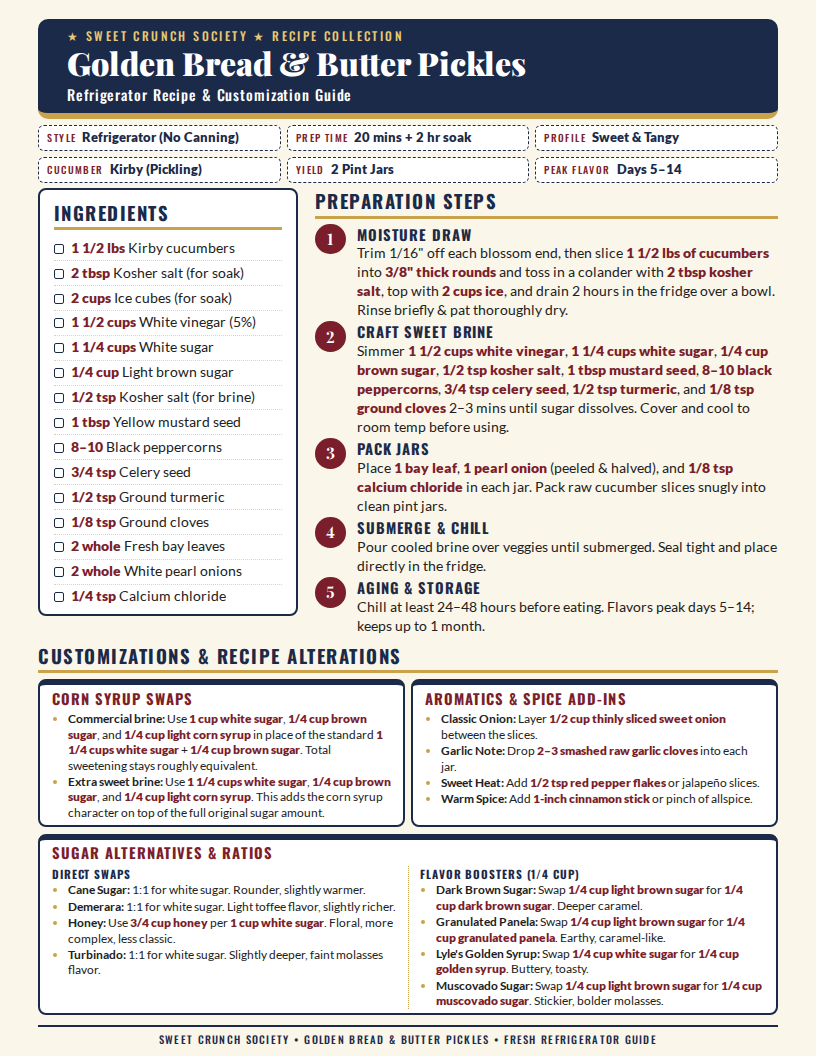
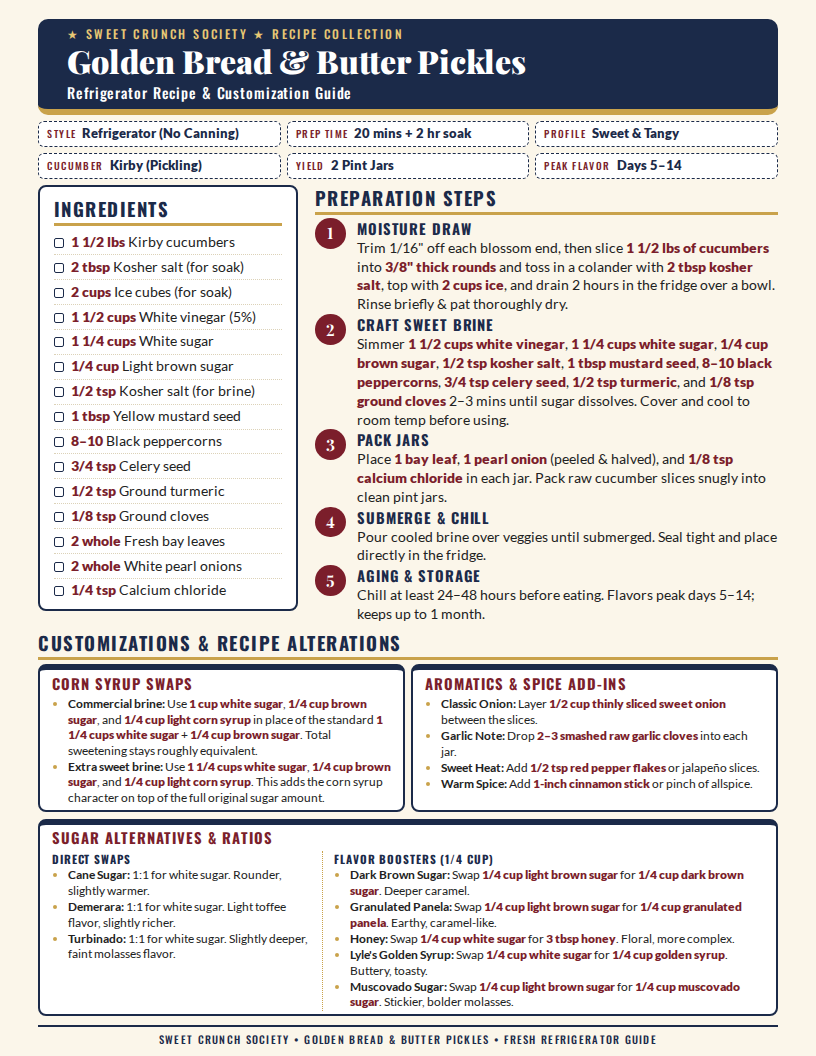
feat: move Honey to Flavor Boosters as a white sugar swap
Honey is now "Swap 1/4 cup white sugar for 3 tbsp honey" (3/4 cup honey
per 1 cup sugar scaled to the 1/4 cup booster amount), listed
alphabetically between Granulated Panela and Lyle's Golden Syrup.

Layout tweaks to fit the longer boosters column:
- Sugar card split is now 0.75fr / 1.25fr (Direct Swaps narrower,
  Flavor Boosters wider).
- Step spacing 0.025in -> 0.01in, section heading margin 6px -> 4px,
  header vertical padding 0.09in -> 0.07in.
Cards end ~8px above the footer line. Regenerated docs/preview.png.

Changed region(s): [[0.0306, 0.0312, 0.9498, 0.9688]]

diff --git a/index.html b/index.html
@@ -42,7 +42,7 @@
   header {
     background: var(--green); color: #fff; border-radius: 10px;
     border-bottom: 6px solid var(--gold);
-    padding: 0.09in 0.3in 0.09in 0.3in; position: relative; min-height: 0.85in;
+    padding: 0.07in 0.3in 0.07in 0.3in; position: relative; min-height: 0.85in;
   }
   header .kicker {
     font-family: 'Oswald', sans-serif; letter-spacing: .2em; font-size: 9pt;
@@ -71,7 +71,7 @@
   h2.sec {
     font-family: 'Oswald', sans-serif; text-transform: uppercase; letter-spacing: .08em;
     font-size: 14pt; color: var(--dill); border-bottom: 3px solid var(--gold);
-    padding-bottom: 2px; margin-bottom: 6px;
+    padding-bottom: 2px; margin-bottom: 4px;
   }
 
   .ingredients { background: #fff; border: 2px solid var(--green); border-radius: 8px; padding: 0.1in 0.14in 0.06in; }
@@ -89,7 +89,7 @@
   .why p { margin: 3px 0 0; font-size: 9.5pt; color: #fff; }
 
   ol.steps { list-style: none; counter-reset: s; margin: 0; padding: 0; }
-  ol.steps li { counter-increment: s; position: relative; padding: 0 0 0 0.44in; margin-bottom: 0.025in; }
+  ol.steps li { counter-increment: s; position: relative; padding: 0 0 0 0.44in; margin-bottom: 0.01in; }
   ol.steps li::before {
     content: counter(s); position: absolute; left: 0; top: -1px; width: 0.32in; height: 0.32in;
     border-radius: 50%; background: var(--brick); color: #fff;
@@ -108,7 +108,7 @@
   .card ul { margin: 0; padding-left: 16px; font-size: 9pt; line-height: 1.28; }
   .card li { margin-bottom: 1px; }
   .card.wide { grid-column: 1 / -1; }
-  .split { display: grid; grid-template-columns: 1fr 1fr; gap: 0.25in; }
+  .split { display: grid; grid-template-columns: 0.75fr 1.25fr; gap: 0.25in; }
   .split > div + div { position: relative; }
   .split > div + div::before { content: ""; position: absolute; left: -0.125in; top: 0; bottom: 0; border-left: 1.5px dotted var(--gold); }
   .card h4 { margin: 0 0 1px; font-family: 'Oswald', sans-serif; text-transform: uppercase; letter-spacing: .08em; font-size: 8.5pt; color: var(--dill); }
@@ -204,7 +204,6 @@
               <ul>
                 <li><b>Cane Sugar:</b> 1:1 for white sugar. Rounder, slightly warmer.</li>
                 <li><b>Demerara:</b> 1:1 for white sugar. Light toffee flavor, slightly richer.</li>
-                <li><b>Honey:</b> Use <strong>3/4 cup honey</strong> per <strong>1 cup white sugar</strong>. Floral, more complex, less classic.</li>
                 <li><b>Turbinado:</b> 1:1 for white sugar. Slightly deeper, faint molasses flavor.</li>
               </ul>
             </div>
@@ -213,6 +212,7 @@
               <ul>
                 <li><b>Dark Brown Sugar:</b> Swap <strong>1/4 cup light brown sugar</strong> for <strong>1/4 cup dark brown sugar</strong>. Deeper caramel.</li>
                 <li><b>Granulated Panela:</b> Swap <strong>1/4 cup light brown sugar</strong> for <strong>1/4 cup granulated panela</strong>. Earthy, caramel-like.</li>
+                <li><b>Honey:</b> Swap <strong>1/4 cup white sugar</strong> for <strong>3 tbsp honey</strong>. Floral, more complex.</li>
                 <li><b>Lyle's Golden Syrup:</b> Swap <strong>1/4 cup white sugar</strong> for <strong>1/4 cup golden syrup</strong>. Buttery, toasty.</li>
                 <li><b>Muscovado Sugar:</b> Swap <strong>1/4 cup light brown sugar</strong> for <strong>1/4 cup muscovado sugar</strong>. Stickier, bolder molasses.</li>
               </ul>
